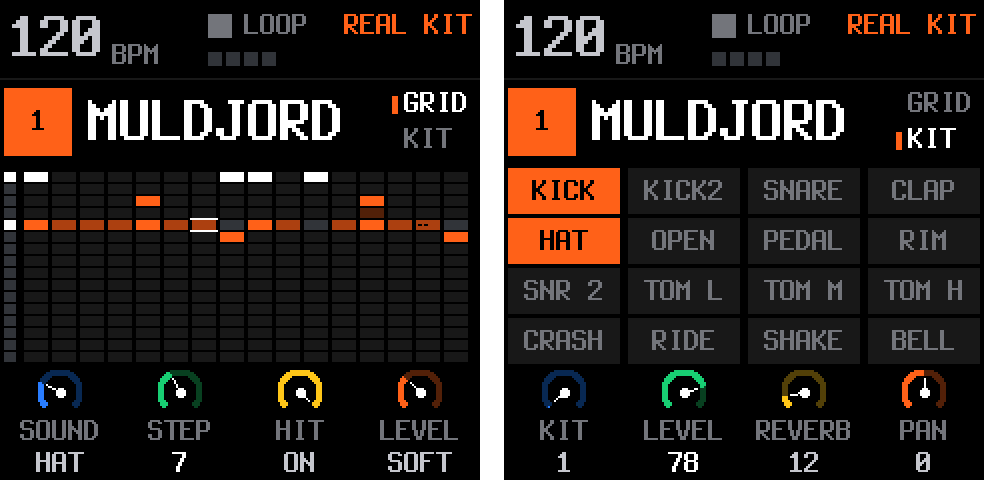
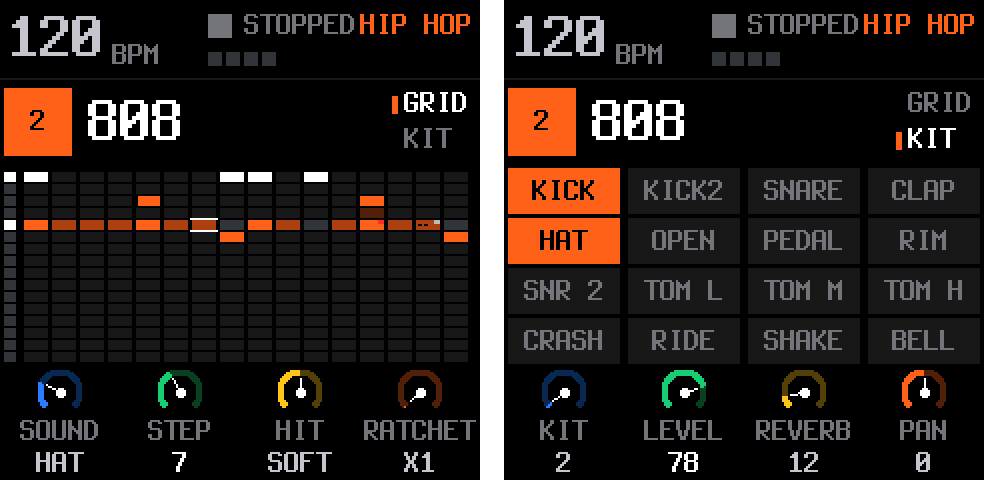
SETUP: KIT PAN moved to its own section, DRUMS 2
The screen shows four rows a section and KIT PAN was DRUMS' fifth. The README's screen strips regenerated from the renders.

diff --git a/docs/webapp/sw.js b/docs/webapp/sw.js
@@ -4,7 +4,7 @@
 // https, so Web MIDI asks as usual (a downloaded file on Android opens as content://, where Chrome refuses MIDI).
 // Online the network always wins (the page as published, never an old one); the copy is only the fallback.
 // A new site (any file changed) is a new sw.js: the new copy replaces the old one.
-const STAMP = "0.9.3-60cb26dd3c63";                          // version + a hash of the files
+const STAMP = "0.9.3-7c2bcd825715";                          // version + a hash of the files
 const CACHE = "backbeat-site-" + STAMP;
 const FILES = ["../firmware/backbeat-0.9.3.fwsc", "backbeat.webmanifest", "changelog/", "cheatsheet/", "cheatsheet/backbeat-panel.svg", "editor/", "editor/FUKIAI-LICENSE.txt", "editor/fukiai.ttf", "editor/gp2song.py", "editor/grooves/ballad-6-8.json", "editor/grooves/blues-shuffle.json", "editor/grooves/classic-rock.json", "editor/grooves/factory.txt", "editor/grooves/four-floor.json", "editor/grooves/half-shuffle.json", "editor/grooves/linear.json", "editor/grooves/metal-gallop.json", "editor/grooves/one-drop.json", "editor/grooves/punk-rock.json", "editor/grooves/ride-n-kick.json", "editor/grooves/rock-ballad.json", "editor/grooves/seven.json", "editor/grooves/slow-rock.json", "editor/grooves/three-over-four.json", "editor/grooves/tom-tribe.json", "editor/grooves/train-beat.json", "editor/kit/ATTRIBUTION.txt", "editor/kit/CLAP_D%232.wav", "editor/kit/COWBELL_G%233.wav", "editor/kit/CRASH_C%233.wav", "editor/kit/HAT_F%232-soft.wav", "editor/kit/HAT_F%232.wav", "editor/kit/HITOM_C3.wav", "editor/kit/KICK2_B1-soft.wav", "editor/kit/KICK2_B1.wav", "editor/kit/KICK_C2-soft.wav", "editor/kit/KICK_C2.wav", "editor/kit/LOWTOM_G2.wav", "editor/kit/MIDTOM_A2.wav", "editor/kit/OPENHAT_A%232-soft.wav", "editor/kit/OPENHAT_A%232.wav", "editor/kit/PEDAL_G%232-soft.wav", "editor/kit/PEDAL_G%232.wav", "editor/kit/RIDE_D%233.wav", "editor/kit/RIM_C%232.wav", "editor/kit/SHAKER_A%234.wav", "editor/kit/SNARE2_E2-soft.wav", "editor/kit/SNARE2_E2.wav", "editor/kit/SNARE_D2-soft.wav", "editor/kit/SNARE_D2.wav", "editor/panel/backbeat-panel.svg", "editor/realkit/ATTRIBUTION.txt", "editor/realkit/CLAP-1a.wav", "editor/realkit/COWBELL-1a.wav", "editor/realkit/CRASH-1a.wav", "editor/realkit/CRASH-1b.wav", "editor/realkit/HAT-1a.wav", "editor/realkit/HAT-2a.wav", "editor/realkit/HAT-3a.wav", "editor/realkit/HAT-4a.wav", "editor/realkit/HITOM-1a.wav", "editor/realkit/HITOM-2a.wav", "editor/realkit/KICK-1a.wav", "editor/realkit/KICK-1b.wav", "editor/realkit/KICK-2a.wav", "editor/realkit/KICK-2b.wav", "editor/realkit/KICK-3a.wav", "editor/realkit/KICK-3b.wav", "editor/realkit/KICK-4a.wav", "editor/realkit/KICK2-1a.wav", "editor/realkit/LOWTOM-1a.wav", "editor/realkit/LOWTOM-2a.wav", "editor/realkit/MIDTOM-1a.wav", "editor/realkit/MIDTOM-2a.wav", "editor/realkit/OPENHAT-1a.wav", "editor/realkit/OPENHAT-2a.wav", "editor/realkit/PEDAL-1a.wav", "editor/realkit/PEDAL-2a.wav", "editor/realkit/RIDE-1a.wav", "editor/realkit/RIDE-2a.wav", "editor/realkit/RIM-1a.wav", "editor/realkit/RIM-2a.wav", "editor/realkit/SHAKER-1a.wav", "editor/realkit/SNARE-1a.wav", "editor/realkit/SNARE-1b.wav", "editor/realkit/SNARE-1c.wav", "editor/realkit/SNARE-2a.wav", "editor/realkit/SNARE-2b.wav", "editor/realkit/SNARE-2c.wav", "editor/realkit/SNARE-3a.wav", "editor/realkit/SNARE-3b.wav", "editor/realkit/SNARE-3c.wav", "editor/realkit/SNARE-4a.wav", "editor/realkit/SNARE-4b.wav", "editor/realkit/SNARE-4c.wav", "editor/realkit/SNARE2-1a.wav", "editor/realkit/kit.json", "icon-192.png", "icon-512.png", "icon-maskable-512.png", "installer/"];                          // relative to this file
 const KEEP = new Set(FILES.map((f) => new URL(f, self.location).href));

diff --git a/docs/webapp/changelog/index.html b/docs/webapp/changelog/index.html
@@ -17,7 +17,7 @@
 <p>What changed in each version of BackBeat, the firmware and the website (the editor and the installer at <a href="https://forrestpanda.github.io/backbeat/">https://forrestpanda.github.io/backbeat/</a>). The version is on the device's boot screen and in SETUP &gt; SYSTEM &gt; ABOUT; the editor shows it next to the connect button.</p>
 <h2>Unreleased</h2>
 <h3>Firmware</h3>
-<ul><li><b>The kit sounds brighter and less like a machine, with no more flash for samples.</b> The samples are pre-emphasised for the device's playback (its interpolation lost 3 dB at 8 kHz and 6 dB at 11 kHz on the kick, snare and toms, 3 dB at 10 kHz on the hats and cymbals; half of that is given back, a full correction sounded hissy), encoded with a lookahead (about 2 dB less hiss on the crash and ride tails), and the one-take sounds (the hats, the pedal, the toms, the ride) no longer play the very same sample twice running: a neighbour velocity layer stands in, at the hit's level. With HUMANIZE on, each hit is a few cents off (6 at LIGHT, 12 at MORE). Each drum has its place in the stereo picture now, a drummer's view (hats left, floor tom and ride right, kick and snare in the middle), on top of the drum track's PAN; the speaker sums it. <b>SETUP &gt; DRUMS &gt; KIT PAN</b> turns it OFF, to DRUMMER (the default) or to AUDIENCE, the mirror; kept with the settings.</li><li><b>Notes on a song and its sections.</b> Free text written in the editor's Song tab (<code>"notes"</code> in the song's JSON, on the song and on a section, up to 255 characters each) travels with the song onto the device. LIVE's state line shows the section's first line while nothing else is announced; <b>OCT- on LIVE</b> opens NOTES, the section's note and the song's in full (KNOB 1 scrolls), OCT- again or HOME back. A song with notes needs this firmware; 0.9.3 refuses it.</li></ul>
+<ul><li><b>The kit sounds brighter and less like a machine, with no more flash for samples.</b> The samples are pre-emphasised for the device's playback (its interpolation lost 3 dB at 8 kHz and 6 dB at 11 kHz on the kick, snare and toms, 3 dB at 10 kHz on the hats and cymbals; half of that is given back, a full correction sounded hissy), encoded with a lookahead (about 2 dB less hiss on the crash and ride tails), and the one-take sounds (the hats, the pedal, the toms, the ride) no longer play the very same sample twice running: a neighbour velocity layer stands in, at the hit's level. With HUMANIZE on, each hit is a few cents off (6 at LIGHT, 12 at MORE). Each drum has its place in the stereo picture now, a drummer's view (hats left, floor tom and ride right, kick and snare in the middle), on top of the drum track's PAN; the speaker sums it. <b>SETUP &gt; DRUMS 2 &gt; KIT PAN</b> turns it OFF, to DRUMMER (the default) or to AUDIENCE, the mirror; kept with the settings.</li><li><b>Notes on a song and its sections.</b> Free text written in the editor's Song tab (<code>"notes"</code> in the song's JSON, on the song and on a section, up to 255 characters each) travels with the song onto the device. LIVE's state line shows the section's first line while nothing else is announced; <b>OCT- on LIVE</b> opens NOTES, the section's note and the song's in full (KNOB 1 scrolls), OCT- again or HOME back. A song with notes needs this firmware; 0.9.3 refuses it.</li></ul>
 <h3>Website</h3>
 <ul><li><b>The editor's player follows</b>: the same stand-in layers, the same pans, the re-rendered kit.</li><li><b>Song notes and section notes</b> in the Song tab, sent with the song and read back from the device.</li></ul>
 <h2>0.9.3 (2026-11-01)</h2>

diff --git a/firmware/src/ui_menu.c b/firmware/src/ui_menu.c
@@ -1,7 +1,9 @@
 /* SPDX-License-Identifier: GPL-3.0-only
  * Copyright (C) 2026 Leo Kuroshita (@kurogedelic), Hügelton Instruments */
 /* SETUP (fm1-drummer: GLO tapped; SLOOP's menu, its GLO pages and its GLO layer in one place), in sections of up to
- * four rows: PEDAL, MIDI, MIDI 2 (LEARN until 2026-10-22), TEMPO, DRUMS, MASTER, TEXTURE (two), SCREEN, LIGHTS, AUDIO, LOAD, SYSTEM. SELECT goes to
+ * four rows (the screen holds no more: a row is 48 px of the 219 under the head; a fifth is cut, seen on the unit
+ * 2026-11-03): PEDAL, MIDI, MIDI 2 (LEARN until 2026-10-22), TEMPO, FEEL, DRUMS, DRUMS 2 (KIT PAN), MASTER, TEXTURE
+ * (two), SCREEN, LIGHTS, AUDIO, LOAD, SYSTEM. SELECT goes to
  * the section before / after (stopping at the ends), KNOB 1..4 set its rows in order (the knob's colour marks its
  * row), PRESETS moves the cursor; OCT+ steps the cursor's setting round or opens it (CALIBRATION, PROJECTS, ABOUT),
  * OCT-, GLO or HOME close (from ABOUT: back to the section). A row is a setting of its own (MI_*), a global
@@ -25,7 +27,8 @@ static const mrow_t MROW[] = {
     {"TEMPO", RK_G, G_BPM}, {"CLICK", RK_G, G_CLOCK}, {"TUNE", RK_G, G_TUNE},
     {"SWING", RK_G, G_SWING}, {"HUMANIZE", RK_MI, MI_HUMAN},
     {"LEVEL", RK_G, G_DRLVL}, {"REVERB", RK_G, G_DRREV}, {"DELAY", RK_G, G_DRDLY}, {"PAN", RK_P, P_PAN},
-    {"KIT PAN", RK_MI, MI_KPAN},                 /* (2026-11-02: the lanes' own pans, drums.c drum_kpan) */
+    {"KIT PAN", RK_MI, MI_KPAN},                 /* DRUMS 2 (2026-11-02: the lanes' own pans, drums.c drum_kpan; its own
+                                                  * section: DRUMS has four rows and the screen four) */
     {"DUST", RK_G, G_DUST}, {"DUCK", RK_G, G_DUCK}, {"FILTER", RK_G, G_FILT}, {"ROLL RATE", RK_G, G_ROLL},
     {"SOURCE", RK_G, G_TXSRC}, {"LEVEL", RK_G, G_TXLVL}, {"TONE", RK_G, G_TXTONE}, {"MOVE", RK_G, G_TXMOVE},
     {"RATE", RK_G, G_TXRATE}, {"WHEN", RK_G, G_TXWHEN}, {"DUCK", RK_G, G_TXDUCK},
@@ -38,12 +41,12 @@ static const mrow_t MROW[] = {
                                                                               * 2026-10-27) */
 };
 #define MI_COUNT (sizeof MROW / sizeof MROW[0])
-enum { MS_PEDAL, MS_MIDI, MS_LEARN, MS_TEMPO, MS_FEEL, MS_DRUMS, MS_MASTER, MS_TEX, MS_TEX2, MS_SCREEN, MS_LIGHTS,
-       MS_AUDIO, MS_LOAD, MS_SYSTEM, MS_COUNT };
-static const char *const MS_NAME[MS_COUNT] = {"PEDAL", "MIDI", "MIDI 2", "TEMPO", "FEEL", "DRUMS", "MASTER", "TEXTURE",
-                                              "TEXTURE 2", "SCREEN", "LIGHTS", "AUDIO", "LOAD",
+enum { MS_PEDAL, MS_MIDI, MS_LEARN, MS_TEMPO, MS_FEEL, MS_DRUMS, MS_DRUMS2, MS_MASTER, MS_TEX, MS_TEX2, MS_SCREEN,
+       MS_LIGHTS, MS_AUDIO, MS_LOAD, MS_SYSTEM, MS_COUNT };
+static const char *const MS_NAME[MS_COUNT] = {"PEDAL", "MIDI", "MIDI 2", "TEMPO", "FEEL", "DRUMS", "DRUMS 2", "MASTER",
+                                              "TEXTURE", "TEXTURE 2", "SCREEN", "LIGHTS", "AUDIO", "LOAD",
                                               "SYSTEM"};
-static const uint8_t MS_FIRST[MS_COUNT + 1] = {0, 4, 8, 12, 15, 17, 22, 26, 30, 33, 36, 39, 42, 46,
+static const uint8_t MS_FIRST[MS_COUNT + 1] = {0, 4, 8, 12, 15, 17, 21, 22, 26, 30, 33, 36, 39, 42, 46,
                                                 MI_COUNT};   /* rows of
                                                                                                           * each */
 _Static_assert(MI_COUNT == 48, "MS_FIRST follows MROW");

diff --git a/tests/ui_pages_test.c b/tests/ui_pages_test.c
@@ -965,12 +965,22 @@ int main(int argc, char **argv)
             check((w >> 17 & 3u) == 1u && drum_kpan == KP_OFF, "KIT PAN: OFF kept (not the default's zero)");
             lights_from_word(w & ~(3u << 17));
             check(drum_kpan == KP_DRUMMER, "KIT PAN: a settings word from 0.9.3 (no bits): DRUMMER");
-            ui.menu = 1; ui.menu_sel = (uint8_t)mi_find(MI_KPAN); ui.force = 1; frame();
-            check(!strcmp(mi_value(ui.menu_sel, &(uint16_t){0}), "DRUMMER"), "menu DRUMS > KIT PAN reads DRUMMER");
+            ui.menu = 1; ui.menu_sel = (uint8_t)mi_find(MI_KPAN); ui.force = 1; frame(); ppm("menu-drums2");
+            check(mi_sec(ui.menu_sel) == MS_DRUMS2 && !strcmp(MS_NAME[MS_DRUMS2], "DRUMS 2") && mi_row(ui.menu_sel) == 0u &&
+                  !strcmp(mi_value(ui.menu_sel, &(uint16_t){0}), "DRUMMER"),
+                  "menu DRUMS 2 > KIT PAN (its own section, 2026-11-03: DRUMS had four rows, the screen holds four), row 1, reads DRUMMER");
             tap(B_OCTUP); frame();
             check(drum_kpan == KP_AUDIENCE && !strcmp(mi_value(ui.menu_sel, &(uint16_t){0}), "AUDIENCE"), "KIT PAN: OCT+ goes round to AUDIENCE");
             tap(B_OCTUP); frame();
             check(drum_kpan == KP_OFF, "KIT PAN: OCT+ again: OFF");
+            encs[panel.enc[EN_K1]] = 1; frame();
+            check(drum_kpan == KP_DRUMMER, "KIT PAN: KNOB 1 up: DRUMMER");
+            encs[panel.enc[EN_K1]] = 5; frame();
+            check(drum_kpan == KP_AUDIENCE, "KIT PAN: KNOB 1 stops at AUDIENCE");
+            for (w = 0; w < MS_COUNT; w++)
+                if (MS_FIRST[w + 1u] - MS_FIRST[w] > 4u)
+                    break;
+            check(w == MS_COUNT, "SETUP: no section has more than four rows (KNOB 1..4; the screen shows four)");
             drum_kpan = KP_DRUMMER; ui.menu_sel = (uint8_t)mi_find(MI_USB); ui.force = 1; frame();   /* (back on USB AUDIO) */
         }
         tap(B_OCTUP);

diff --git a/docs/design.md b/docs/design.md
@@ -590,8 +590,11 @@ next bar). No named sections, one song, no fill tied to a section change.
    2026-11-02, after the user listened: the 6 dB render "noisier" than 0.9.3 (not the ADPCM noise, which fell: the
    cymbals' top against their body, the hiss and the images with it), the cap set to 3 dB from an A/B at 0, 3 and 6
    (`build/host/compare.html`); the pans liked, the kick expected in the middle (it is: the hats on the same beats lean
-   left), so SETUP > DRUMS > KIT PAN: OFF, DRUMMER (the default), AUDIENCE (the mirror); drums.c `drum_kpan`, kept in the
-   settings word (panel.c, bits 17..18 as the value plus one: a word from 0.9.3 reads DRUMMER). Image 564108 B.
+   left), so SETUP > DRUMS 2 > KIT PAN: OFF, DRUMMER (the default), AUDIENCE (the mirror); drums.c `drum_kpan`, kept in the
+   settings word (panel.c, bits 17..18 as the value plus one: a word from 0.9.3 reads DRUMMER). Image 564108 B. It was
+   DRUMS' fifth row at first: the user, 2026-11-03, "the device only displays four rows per menu" (a row is 48 px of
+   the 219 under the head: the fifth drew off the panel), so its own section, DRUMS 2, as MIDI 2 and TEXTURE 2; the
+   host test checks no section has more than four rows.
 10. **Notes on a song and its sections (2026-11-02, done).** Asked: "a way to add text to the song section, or maybe
    to the song as a whole so that I can register notes about how to play the song. things like on 3rd time bridge
    happens a bar earlier", to remember how the song is organised on the Ampero 2 Stage; asked whether the device had
@@ -650,7 +653,7 @@ the only big lever is `SMP_DATA`, and the acoustic kit is in it.
 | With entries and breaks (CC 28, 2026-10-18; the flams and the fills to the section's end before it) | 550984 B: **30580 B left**; static RAM 61312 B |
 | The ride 2.0 s (399478 B of ADPCM), the voice pick (at most four of a note, the quietest given way) and SETUP > LOAD, 2026-10-22 | 566616 B: **14948 B left**; static RAM 61344 B |
 | SLOOP 2.7 to 2.8.4 looked through (2026-10-30, below): the mix rounded, the rescue key, the clock's mean tempo, the knobs' acceleration, MIDI CLOCK OUT, the crash screen's stack and the stacks painted; then the non-audio functions compiled for size (`UI_SMALL`, clang minsize, SLOOP 2.7's) | 568460 B with the changes, **563116 B** with UI_SMALL: **18448 B left**; static RAM 61568 B |
-| 0.9.3, then the kit's sound without more samples (2026-11-01, `docs/kits.md`): the stand-in layers, the pitch jitter, a pan per lane (the pre-emphasis and the encoder change no byte count) | 563320 B, 563912 B, 564108 B (KIT PAN), then 565620 B (the notes, 2026-11-02): **15944 B left**; static RAM 63184 B (the NOTES screen's text, 512 B) |
+| 0.9.3, then the kit's sound without more samples (2026-11-01, `docs/kits.md`): the stand-in layers, the pitch jitter, a pan per lane (the pre-emphasis and the encoder change no byte count) | 563320 B, 563912 B, 564108 B (KIT PAN), then 565620 B (the notes, 2026-11-02), 565628 B (DRUMS 2, 2026-11-03): **15936 B left**; static RAM 63184 B (the NOTES screen's text, 512 B) |
 | Data region (0x93000..0xE0000): projects, the user sample slots of 80 KB (USR1 and USR2 now hold the songs: USR3 and USR4 are the user's; free: 0xC4000..0xC7FFF, the old user preset banks 0xDC000..0xDFFFF, the FM6 bank 0xE5000..0xE6FFF, 0xFB000) | about 308 KB |
 | Songs 1..8 (0xA0000..0xAFFFF, A/B) and the pedal settings (0xB0000 / 0xB1000); songs 9..16 (0xB4000..0xC3FFF, A/B, since 2026-10-14) | 72 KB of USR1's 80 KB, 64 KB of USR2's; the kit pair USR3+4 stays the user's |
 | ADPCM sample audio | about 11 KB per second (mono 22 kHz, 4 bit) |

diff --git a/README.md b/README.md
@@ -386,8 +386,9 @@ start, MIDI clock in: OFF, USB or TRS, the tempo and START / STOP from a clock m
 drums' channel, IN, other channels, OUT), MIDI 2 (MIDI LEARN, clear; TRS TO USB: what the TRS jack receives goes out
 over USB as well, the pedal and the clock for a tablet's editor to follow; off by default; BRIDGE ONLY: out over USB
 and nothing else, the FM-1 a TRS-to-USB MIDI interface that plays nothing, LIVE says BRIDGE: PEDAL TO USB), TEMPO (tempo, click,
-tune), FEEL (swing, humanize), DRUMS (level, reverb, delay, pan; KIT PAN: each drum's own place in the stereo
-picture, OFF, DRUMMER (hats left, floor tom and ride right, kick and snare in the middle) or AUDIENCE, the mirror), MASTER, TEXTURE and TEXTURE 2, SCREEN (colour, zoom; SCREEN OFF: NEVER, 1, 5 or 15 minutes stopped and untouched, then
+tune), FEEL (swing, humanize), DRUMS (level, reverb, delay, pan), DRUMS 2 (KIT PAN: each drum's own place in the
+stereo picture, OFF, DRUMMER (hats left, floor tom and ride right, kick and snare in the middle) or AUDIENCE, the
+mirror; KNOB 1 or OCT+), MASTER, TEXTURE and TEXTURE 2, SCREEN (colour, zoom; SCREEN OFF: NEVER, 1, 5 or 15 minutes stopped and untouched, then
 the screen and its backlight go dark; a button, key, knob or the pedal wakes it, and the press that wakes it does
 nothing else), LIGHTS, AUDIO,
 LOAD (the audio's load and the drum voices), SYSTEM (calibration, ABOUT). The pedal settings are saved once the music stops.

diff --git a/docs/kits.md b/docs/kits.md
@@ -112,8 +112,8 @@ the speaker and the TRS out; the pre-emphasis cap and the pans are recipe number
   every sampled kit (the lanes are the same instruments; the synthesised kits stay centred): hats, open hat and pedal
   -30, hi tom -12, crash -25, cowbell -20; clap +15, mid tom +15, shaker +25, low tom and ride +35. SLOOP's pan law (one
   side turned down) as the track's; the speaker sums it (a lane at 30 % is 1.5 dB down in the sum). The editor's player
-  pans the same way (a StereoPanner). The user kits' WAVs stay mono. **SETUP > DRUMS > KIT PAN (2026-11-02): OFF,
-  DRUMMER, AUDIENCE** (drums.c `drum_kpan`; the settings word's bits 17..18, a word from 0.9.3 reads DRUMMER). The user
+  pans the same way (a StereoPanner). The user kits' WAVs stay mono. **SETUP > DRUMS 2 > KIT PAN (2026-11-02): OFF,
+  DRUMMER, AUDIENCE** (its own section since 2026-11-03: DRUMS has four rows and the screen shows four) (drums.c `drum_kpan`; the settings word's bits 17..18, a word from 0.9.3 reads DRUMMER). The user
   liked the picture but expected the kick in the middle: it is (its pan 0; in the render the band under 150 Hz sits
   within half a dB of the middle, the floor tom's fills pull it right a little); what leans left is the hats on the
   same beats, and the one-side pan law turns one side down rather than moving the sound. The drummer's view (hats

diff --git a/CHANGELOG.md b/CHANGELOG.md
@@ -15,7 +15,7 @@ ABOUT; the editor shows it next to the connect button.
   the ride) no longer play the very same sample twice running: a neighbour velocity layer stands in, at the hit's
   level. With HUMANIZE on, each hit is a few cents off (6 at LIGHT, 12 at MORE). Each drum has its place in the stereo
   picture now, a drummer's view (hats left, floor tom and ride right, kick and snare in the middle), on top of the drum
-  track's PAN; the speaker sums it. **SETUP > DRUMS > KIT PAN** turns it OFF, to DRUMMER (the default) or to AUDIENCE,
+  track's PAN; the speaker sums it. **SETUP > DRUMS 2 > KIT PAN** turns it OFF, to DRUMMER (the default) or to AUDIENCE,
   the mirror; kept with the settings.
 - **Notes on a song and its sections.** Free text written in the editor's Song tab (`"notes"` in the song's JSON, on
   the song and on a section, up to 255 characters each) travels with the song onto the device. LIVE's state line
